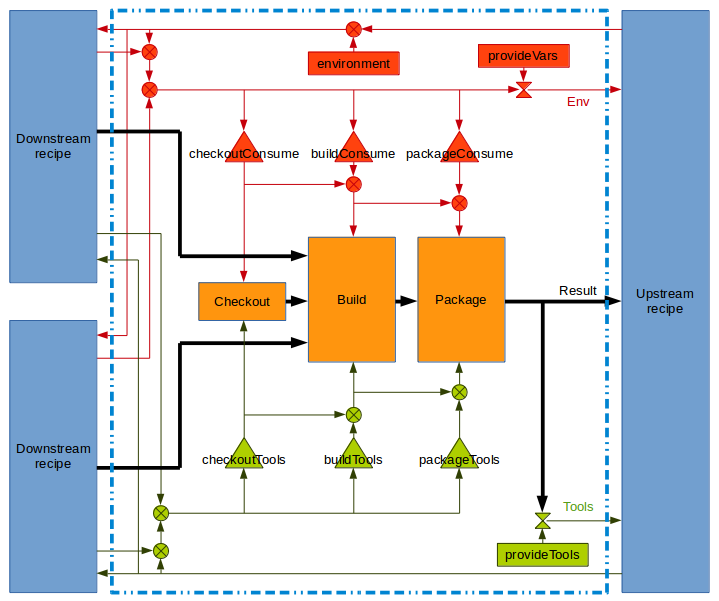
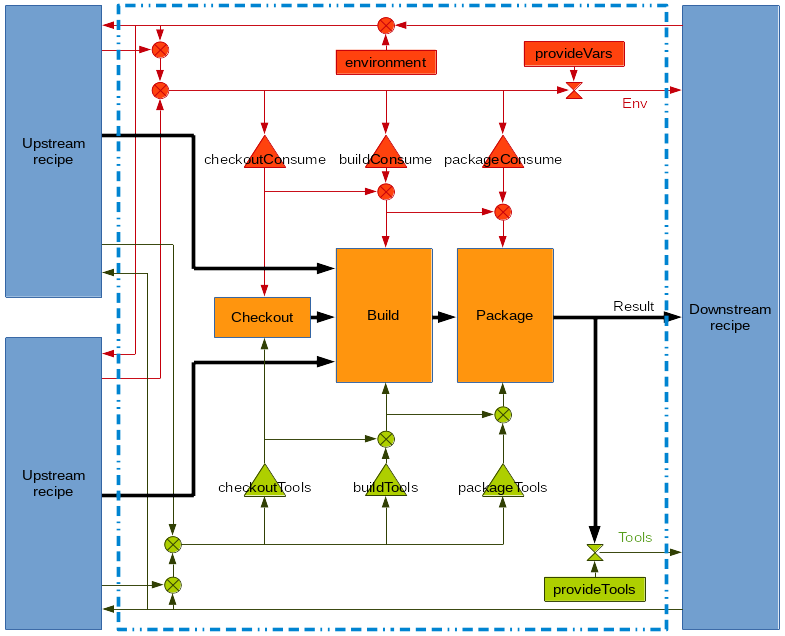
doc: exchange up- and downstream naming
The terms were obviously mixed.

Changed region(s): [[0.0, 0.0, 1.0, 1.0], [0.459, 0.4792, 0.5202, 0.5092]]

diff --git a/doc/manual/configuration.rst b/doc/manual/configuration.rst
@@ -129,7 +129,7 @@ Environment
 Tools
     Tools are aliases for paths to executables. Initially there are no tools.
     They are defined by ``provideTools`` and must be explicitly imported by
-    upstream recipes by listing ``tools`` in the ``use`` attribute. Like
+    downstream recipes by listing ``tools`` in the ``use`` attribute. Like
     environment variables, the tools are kept as key value pairs where the key
     is a string and the value is the executable and library paths that are
     imported when using a tool.
@@ -141,9 +141,9 @@ Sandbox
     Sandboxed builds are described in a separate section below.
 
 All of this information is carried as local state when traversing the
-dependency tree. Each recipe gets a local copy that is propagated downstream.
-Any updates to upstream recipes must be done by explicitly offering the
-information with one of the ``provide*`` keywords and the upstream recipe must
+dependency tree. Each recipe gets a local copy that is propagated upstream.
+Any updates to downstream recipes must be done by explicitly offering the
+information with one of the ``provide*`` keywords and the downstream recipe must
 consume it by adding the relevant item to the ``use`` attribute of the
 dependency.
 
@@ -209,7 +209,7 @@ each root recipe.
     new behaviour (i.e. enabled policy) is to start with a clean environment.
 
 The next steps are repeated for each recipe as the dependency tree is traversed.
-A copy of the environment is inherited from the upstream recipe.
+A copy of the environment is inherited from the downstream recipe.
 
 1. Any variable defined in ``environment`` is set to the given value.
 2. Make a copy of the local environment that is subsequently passed to each
@@ -248,10 +248,10 @@ step depends on a certain variable then the result of the following step is
 already indirectly dependent on this variable. Thus it can be set during the
 following step anyway.
 
-A recipe might optionally offer some variables to the upstream recipe with a
+A recipe might optionally offer some variables to the downstream recipe with a
 ``provideVars`` section. The values of these variables might use variable
 substitution where the substituted values are coming from the local
-environment. The upstream recipe must explicitly consume these provided
+environment. The downstream recipe must explicitly consume these provided
 variables by adding ``environment`` to the ``use`` attribute of the dependency.
 
 Tool handling
@@ -265,7 +265,7 @@ to its ``$PATH``.
 
 Starting at the root recipe, there are no tools. The next steps are repeated
 for each recipe as the dependency tree is traversed. A copy of the tool
-aliases is inherited from the upstream recipe.
+aliases is inherited from the downstream recipe.
 
 #. Make a copy of the local tool aliases that is subsequently passed to each
    dependency (named "forwarded tools" thereafter).
@@ -288,7 +288,7 @@ package step too.
 
 To define one or more tools, a recipe must include a ``provideTools`` section
 that defines the relative execution path and library paths of one or more tool
-aliases. These aliases may be picked up by the upstream recipe by having
+aliases. These aliases may be picked up by the downstream recipe by having
 ``tools`` in the ``use`` attribute of the dependency.
 
 Sandbox operation
@@ -306,8 +306,8 @@ by a recipe in the project.
 
 .. _user namespaces: http://man7.org/linux/man-pages/man7/user_namespaces.7.html
 
-Initially no sandbox is defined. A downstream recipe might offer its built
-package as sandbox through ``provideSandbox``. The upstream recipe must define
+Initially no sandbox is defined. An upstream recipe might offer its built
+package as sandbox through ``provideSandbox``. The downstream recipe must define
 ``sandbox`` in the ``use`` attribute of this dependency to pick it up as
 sandbox. This sandbox is effective only for the current recipe. If ``forward``
 is additionally set to ``True`` the following dependencies will inherit this
@@ -1237,8 +1237,8 @@ environment
 Type: Dictionary (String -> String)
 
 Defines environment variables in the scope of the current recipe. Any inherited
-variables of the upstream recipe with the same name are overwritten. All
-variables are passed to downstream recipes.
+variables of the downstream recipe with the same name are overwritten. All
+variables are passed to upstream recipes.
 
 Example::
 
@@ -1258,7 +1258,7 @@ filter
 Type: Dictionary ( "environment" | "sandbox" | "tools" -> List of Strings)
 
 The filter keyword allows to restrict the environment variables, tools and
-sandboxes inherited from upstream recipes. This way a recipe can effectively
+sandboxes inherited from downstream recipes. This way a recipe can effectively
 restrict the number of package variants.
 
 The filters specifications may use shell globbing patterns. As a special
@@ -1518,7 +1518,7 @@ privateEnvironment
 Type: Dictionary (String -> String)
 
 Defines environment variables just for the current recipe. Any inherited
-variables with the same name of the upstream recipe or others that were
+variables with the same name of the downstream recipe or others that were
 consumed from the dependencies are overwritten. All variables defined or
 replaced by this keyword are private to the current recipe.
 
@@ -1547,10 +1547,10 @@ false. In this case the entry is silently dropped. To specify multiple
 dependencies with a single entry shell globbing patterns may be used.
 
 Provided dependencies are subsequently injected into the dependency list of the
-upstream recipe that has a dependency to this one (if ``deps`` is included in
+downstream recipe that has a dependency to this one (if ``deps`` is included in
 the ``use`` attribute of the dependency, which is the default). This works in a
-transitive fashion too, that is provided dependencies of a downstream recipe
-are forwarded to the upstream recipe too.
+transitive fashion too, that is provided dependencies of an upstream recipe
+are forwarded to the downstream recipe too.
 
 Example::
 
@@ -1635,7 +1635,7 @@ provideVars
 Type: Dictionary (String -> String)
 
 Declares arbitrary environment variables with values that should be passed to
-the upstream recipe. The values of the declared variables are subject to
+the downstream recipe. The values of the declared variables are subject to
 variable substitution. The substituted values are taken from the current
 package environment. Example::
 
@@ -1644,10 +1644,10 @@ package environment. Example::
         CROSS_COMPILE: "arm-linux-${ABI}-"
 
 
-By default these provided variables are not picked up by upstream recipes. This
+By default these provided variables are not picked up by downstream recipes. This
 must be declared explicitly by a ``use: [environment]`` attribute in the
-dependency section of the upstream recipe. Only then are the provided variables
-merged into the upstream recipes environment.
+dependency section of the downstream recipe. Only then are the provided variables
+merged into the downstream recipes environment.
 
 .. _configuration-recipes-provideSandbox:
 
@@ -1657,7 +1657,7 @@ provideSandbox
 Type: Sandbox-Dictionary
 
 The ``provideSandbox`` keyword offers the current recipe as sandbox for the
-upstream recipe. Any consuming upstream recipe (via ``use: [sandbox]``) will
+downstream recipe. Any consuming downstream recipe (via ``use: [sandbox]``) will
 be built in a sandbox where the root file system is the result of the current
 recipe. The initial ``$PATH`` is defined with the required ``paths`` keyword
 that should hold a list of paths. This will completely replace ``$PATH`` of

diff --git a/doc/manual/concepts.rst b/doc/manual/concepts.rst
@@ -20,14 +20,14 @@ resolved, is called a package.  Each package is created from a single recipe
 but there might be multiple packages that are created from a particular recipe.
 Inside each recipe there are always three steps: checkout, build and package.
 The following picture shows the processing inside a recipe and the interaction
-with upstream and downstream recipes:
+with downstream and upstream recipes:
 
 .. image:: /images/recipe-flow.png
 
 There are four kinds of objects that are exchanged between recipes: results,
 dependencies, environment variables and tools. Results (shown as black arrows)
-are always propagated upstream. These are the actual build artifacts that are
-created. Dependencies (downstream recipes) may be propagated upwards which is
+are always propagated downstream. These are the actual build artifacts that are
+created. Dependencies (upstream recipes) may be propagated downstream which is
 not shown in the picture. Environment variables are key-value-pairs of
 strings. They are passed as shell variables to the individual build steps.
 Tools are scripts or executables that are needed to produce the build result,
@@ -52,7 +52,7 @@ shown in green. By default only build results and dependencies are exchanged. A
 recipe may declare that it consumes certain environment variables
 (:ref:`configuration-recipes-vars`) and tools (:ref:`configuration-recipes-tools`).
 On the other hand a recipe may also declare to provide a dependency, tool or
-variable, providing the necessary input for upstream recipes. If a tool or
+variable, providing the necessary input for downstream recipes. If a tool or
 environment variable is used without declaring its usage, Bob will stop
 processing. This will either happen when parsing the recipes (if detectable) or
 during execution of the build. All executed scripts are configured to fail if
@@ -149,8 +149,8 @@ the build result (step itself or any dependency), it will result in a new
 reverted, the :term:`Variant-Id` will get the previous value and Bob will restart using
 the previous directory.
 
-In local builds, the build results are shared directly with upstream packages by
-passing the path to the upstream steps. On the Jenkins build server the build
+In local builds, the build results are shared directly with downstream packages by
+passing the path to the downstream steps. On the Jenkins build server the build
 results are copied between the different work spaces.
 
 Based on the :term:`Build-Id`, it is possible to fetch build results of a build server
